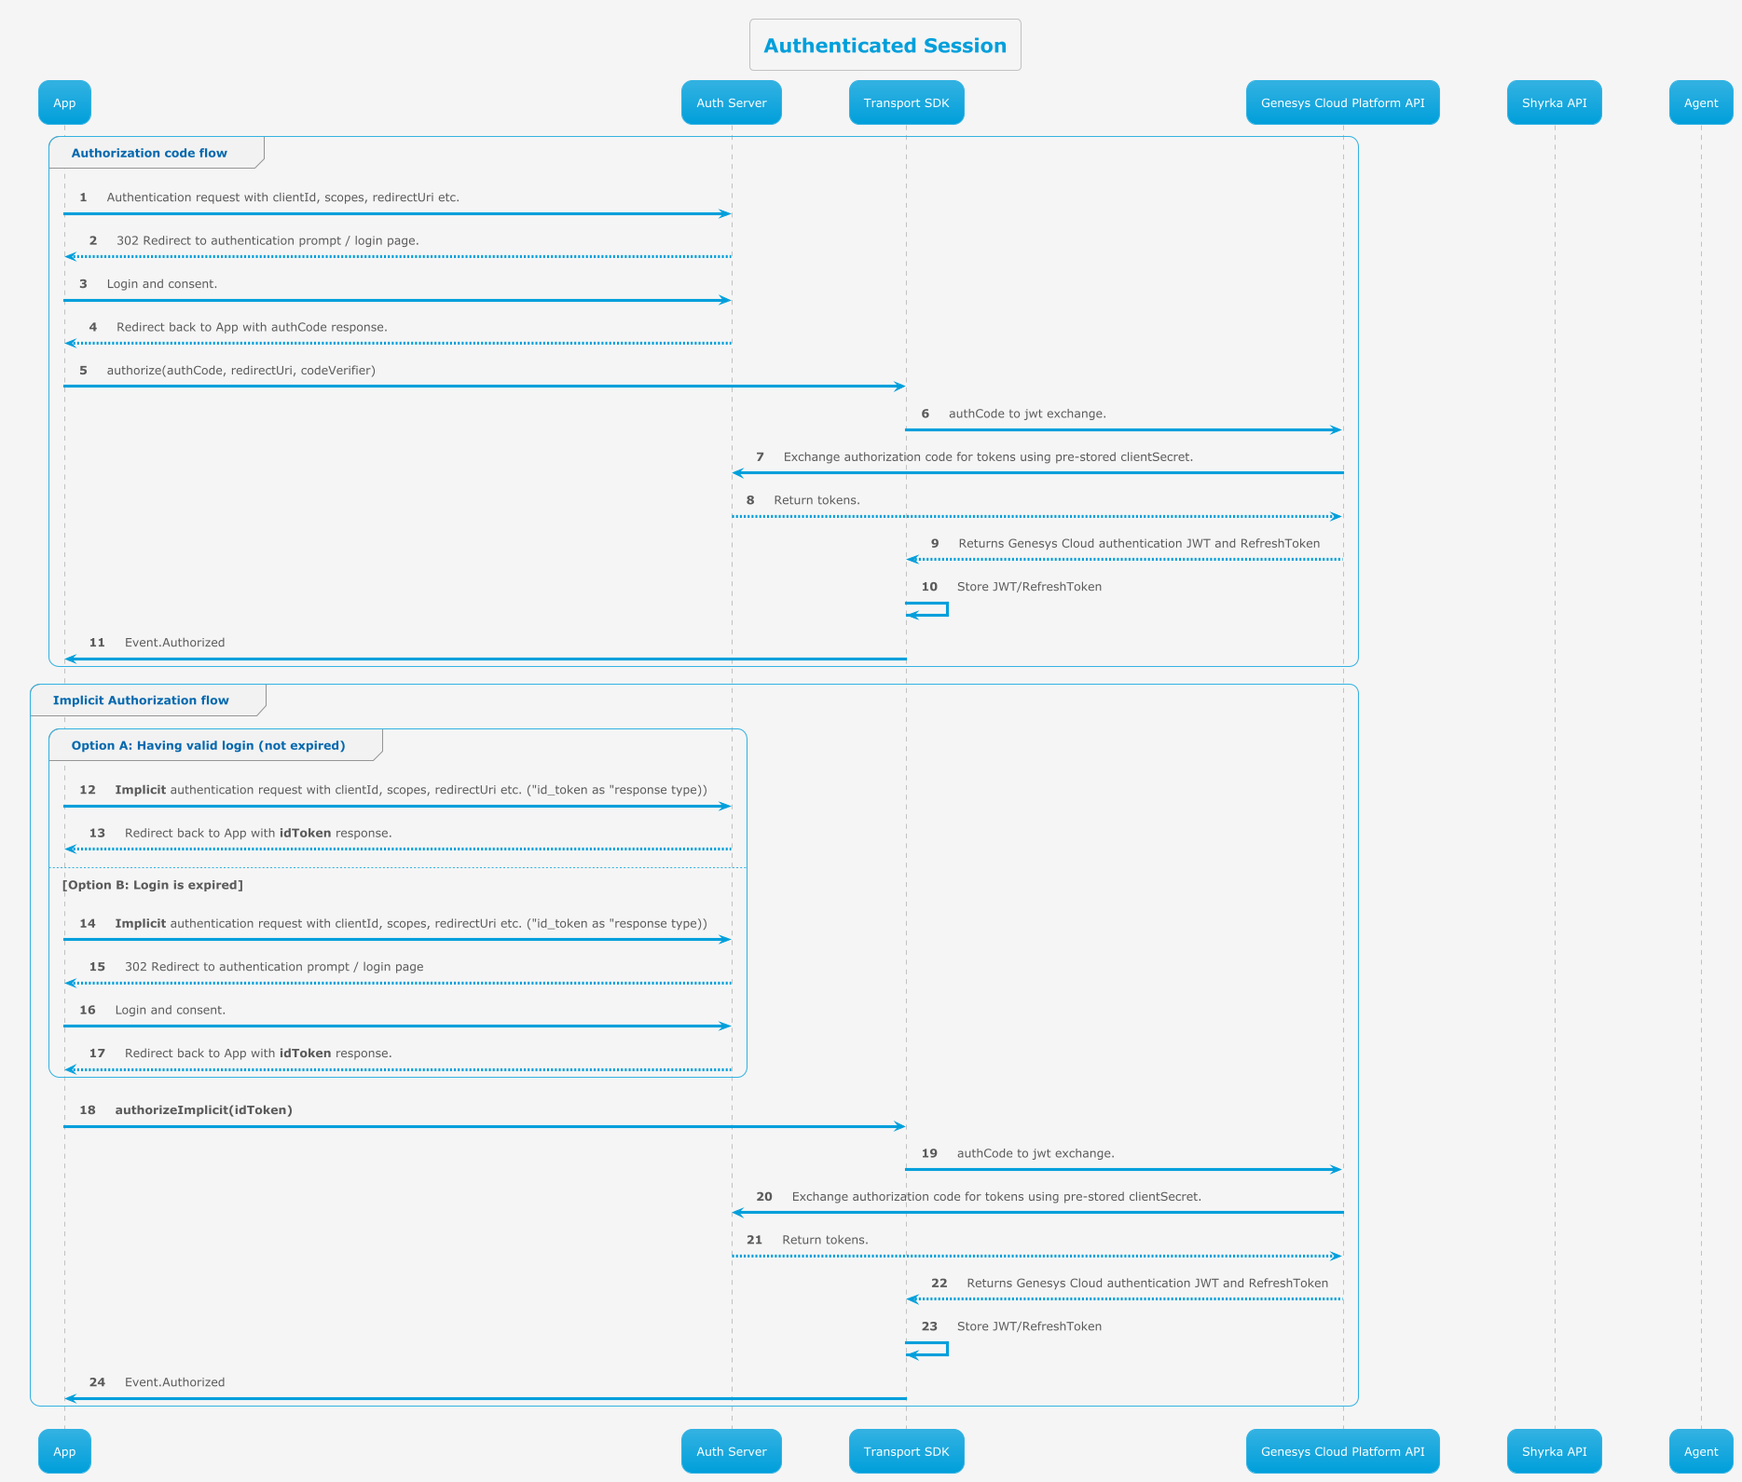
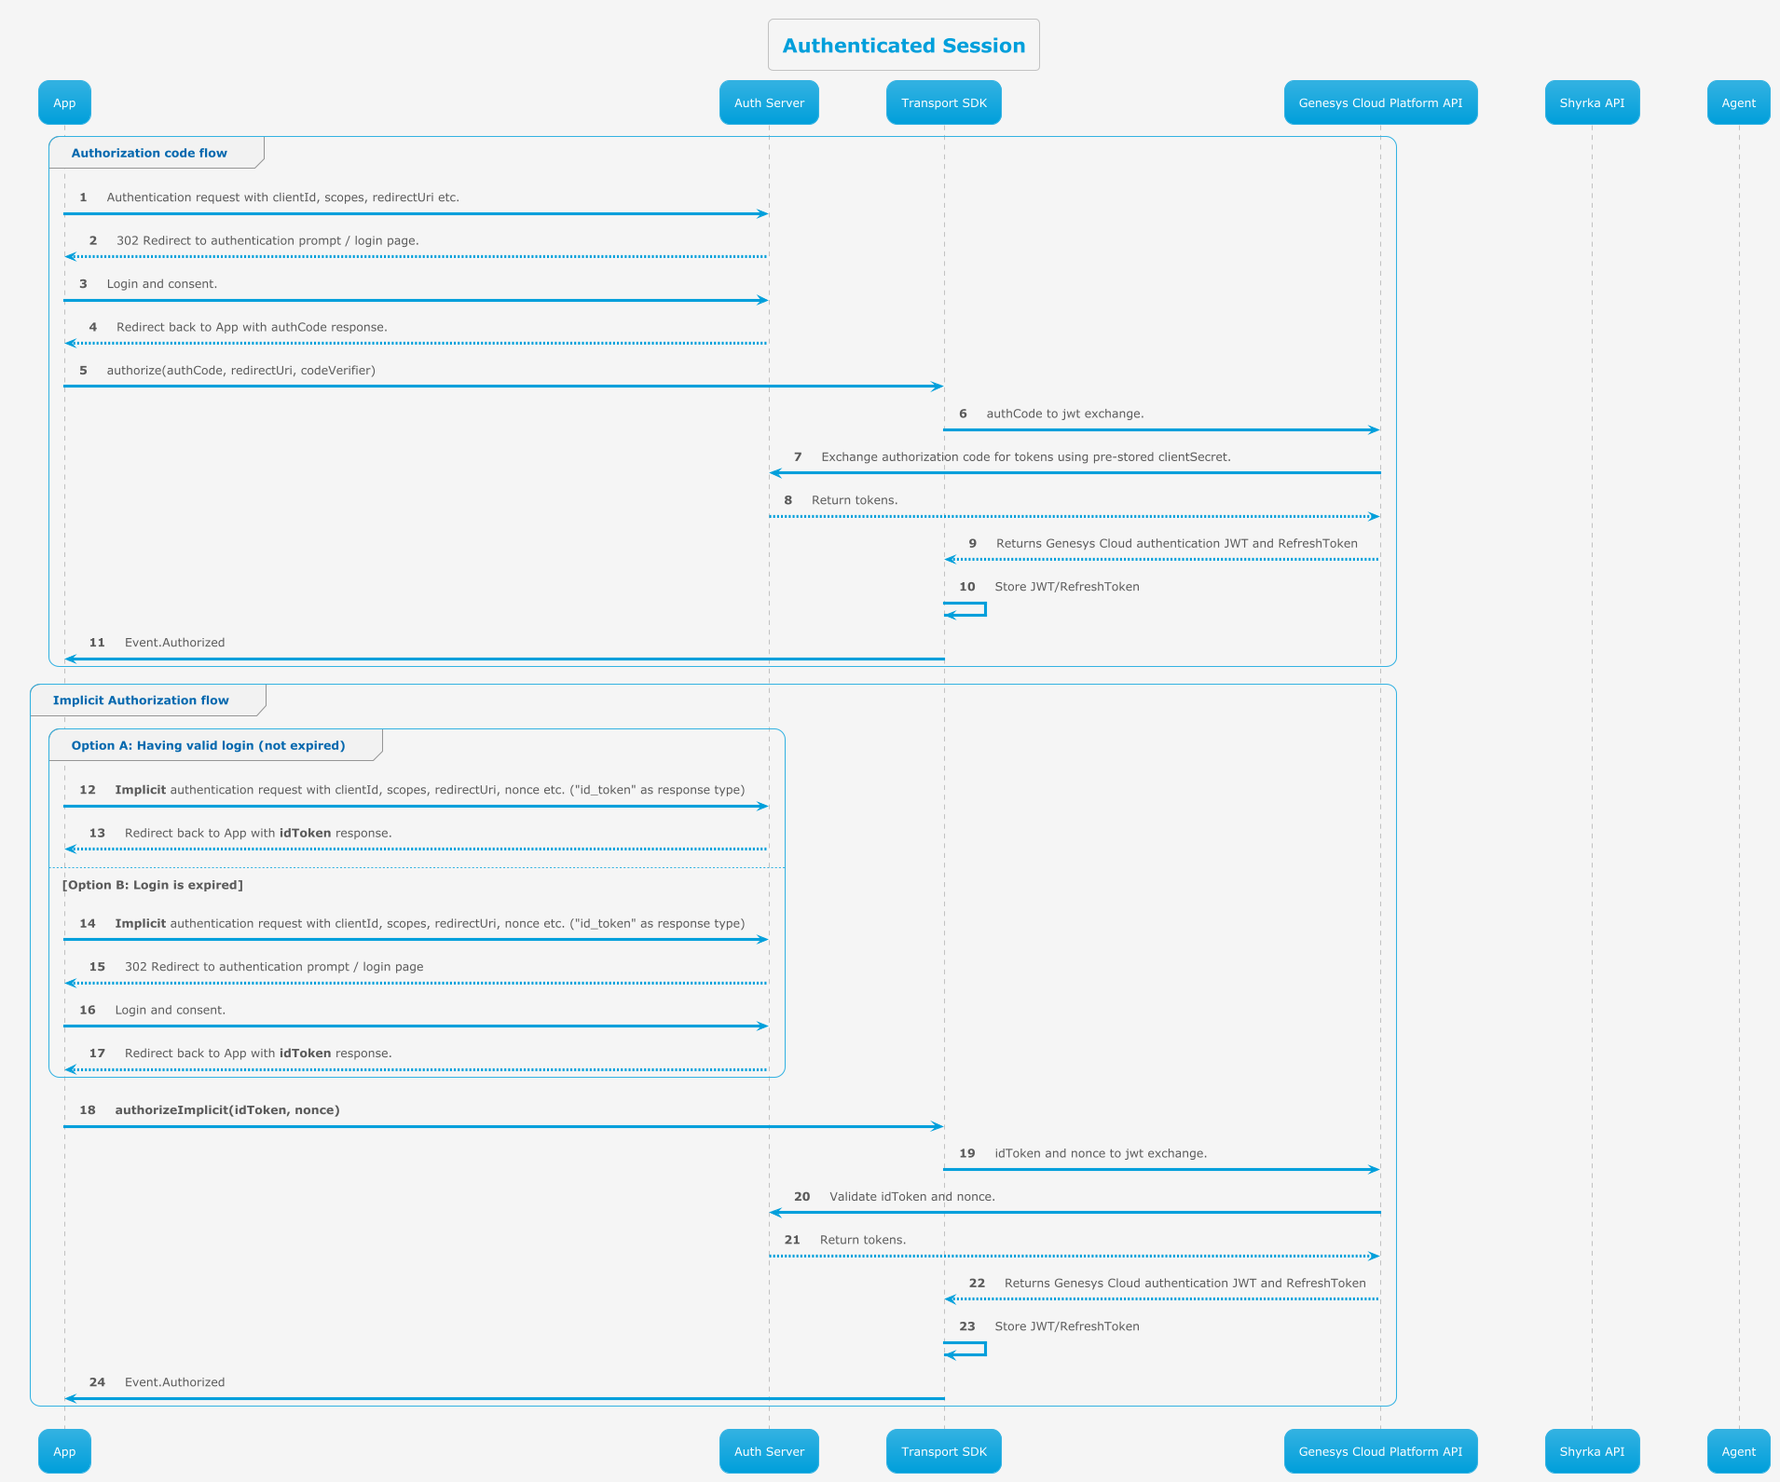
feature/MTSDK-777_Implement-the-messaging-client-authorize-implicit-id-token-method (#442)
* feature/MTSDK-777_Implement-the-messaging-client-authorize-implicit-id-token-method

Update Okta domain and implement implicit authentication flow

- Update Okta domain from dev-2518047 to integrator-8231776
- Update URL schemes to match new domain
- Replace mock authorizeImplicit with real implementation
- Add fragment parameter parsing for implicit flow redirects
- Update authorization URL path for implicit flow

* Add implicit flow authentication support for Android

* Fix implicit authentication flow and clean up code

- Update implicit flow to use idToken instead of code in request body
- Remove unnecessary annotations and debug logging
- Fix authorization code flow to not set nonce incorrectly
- Update unit tests

* MTSDK-777 add fallback value for nonce

* Fix implicit authentication flow and clean up code

- Update implicit flow to use idToken instead of code in request body
- Remove unnecessary annotations and debug logging
- Fix authorization code flow to not set nonce incorrectly
- Update unit tests

* Fix implicit authentication flow and clean up code

- Update implicit flow to use idToken instead of code in request body
- Remove unnecessary annotations and debug logging
- Fix authorization code flow to not set nonce incorrectly
- Update unit tests

* - Update HLD

* MTSDK-777 Review fix

---------

diff --git a/androidComposePrototype/src/main/java/com/genesys/cloud/messenger/androidcomposeprototype/MainActivity.kt b/androidComposePrototype/src/main/java/com/genesys/cloud/messenger/androidcomposeprototype/MainActivity.kt
@@ -30,6 +30,10 @@ class MainActivity :
         super.onCreate(savedInstanceState)
         setPrototypeLauncherView()
         WindowCompat.setDecorFitsSystemWindows(window, false)
+
+        intent?.data?.doIfRedirectedFromOkta { uri ->
+            handleOktaRedirect(uri)
+        }
     }
 
     private fun setPrototypeLauncherView() {
@@ -66,21 +70,48 @@ class MainActivity :
 
     private inline fun Uri?.doIfRedirectedFromOkta(block: (uri: Uri) -> Unit) {
         // Check with scheme from AndroidManifest.MainActivity
-        if (this?.scheme == "com.okta.dev-14718840") {
+        if (this?.scheme == "com.oktapreview.genesys-cloud") {
             block(this)
         }
     }
 
     private fun handleOktaRedirect(data: Uri) {
+        Log.d(TAG, "handleOktaRedirect uri: $data")
+
         data.getQueryParameter("code")?.let { authCode ->
             viewModel.authCode = authCode
+            viewModel.idToken = ""
+        } ?: run {
+            data.fragment?.let { fragment ->
+                parseFragmentParameters(fragment)
+            }
         }
-        data.getQueryParameter("id_token")?.let { idToken ->
+        data.getQueryParameter("error")?.let { error ->
+            val errorDescription = data.getQueryParameter("error_description") ?: error
+            Log.e(TAG, "Okta error: $error - $errorDescription")
+            Toast.makeText(applicationContext, errorDescription, Toast.LENGTH_LONG).show()
+        }
+    }
+
+    private fun parseFragmentParameters(fragment: String) {
+        val params = mutableMapOf<String, String>()
+        fragment.split("&").forEach { param ->
+            val parts = param.split("=", limit = 2)
+            if (parts.size == 2) {
+                val key = Uri.decode(parts[0])
+                val value = Uri.decode(parts[1])
+                params[key] = value
+            }
+        }
+        params["id_token"]?.let { idToken ->
+            Log.d(TAG, "handleOktaRedirect id token: $idToken")
             viewModel.idToken = idToken
+            viewModel.authCode = ""
         }
-        data.getQueryParameter("error_description")?.let { error ->
-            Log.e(TAG, error)
-            Toast.makeText(applicationContext, error, Toast.LENGTH_LONG).show()
+        params["error"]?.let { error ->
+            val errorDescription = params["error_description"] ?: error
+            Log.e(TAG, "Okta error: $error - $errorDescription")
+            Toast.makeText(applicationContext, errorDescription, Toast.LENGTH_LONG).show()
         }
     }
 }

diff --git a/transport/src/androidUnitTest/kotlin/transport/auth/AuthHandlerTest.kt b/transport/src/androidUnitTest/kotlin/transport/auth/AuthHandlerTest.kt
@@ -587,14 +587,14 @@ class AuthHandlerTest {
 
     @Test
     fun `when authorizeImplicit() success`() {
-        coEvery { mockWebMessagingApi.fetchAuthJwt(AuthTest.ID_TOKEN) } returns Result.Success(
+        coEvery { mockWebMessagingApi.fetchAuthJwt(AuthTest.ID_TOKEN, AuthTest.NONCE) } returns Result.Success(
             AuthJwt(AuthTest.JWT_TOKEN, AuthTest.REFRESH_TOKEN)
         )
         val expectedAuthJwt = AuthJwt(AuthTest.JWT_TOKEN, NO_REFRESH_TOKEN)
 
-        subject.authorizeImplicit(AuthTest.ID_TOKEN)
+        subject.authorizeImplicit(AuthTest.ID_TOKEN, AuthTest.NONCE)
 
-        coVerify { mockWebMessagingApi.fetchAuthJwt(AuthTest.ID_TOKEN) }
+        coVerify { mockWebMessagingApi.fetchAuthJwt(AuthTest.ID_TOKEN, AuthTest.NONCE) }
         verify { mockEventHandler.onEvent(Event.Authorized) }
         assertThat(subject.jwt).isEqualTo(expectedAuthJwt.jwt)
         assertThat(fakeVault.authRefreshToken).isEqualTo(expectedAuthJwt.refreshToken)
@@ -602,16 +602,16 @@ class AuthHandlerTest {
 
     @Test
     fun `when authorizeImplicit() failure`() {
-        coEvery { mockWebMessagingApi.fetchAuthJwt(AuthTest.ID_TOKEN) } returns Result.Failure(
+        coEvery { mockWebMessagingApi.fetchAuthJwt(AuthTest.ID_TOKEN, AuthTest.NONCE) } returns Result.Failure(
             ErrorCode.AuthFailed,
             ErrorTest.MESSAGE
         )
 
         val expectedAuthJwt = AuthJwt(NO_JWT, NO_REFRESH_TOKEN)
 
-        subject.authorizeImplicit(AuthTest.ID_TOKEN)
+        subject.authorizeImplicit(AuthTest.ID_TOKEN, AuthTest.NONCE)
 
-        coVerify { mockWebMessagingApi.fetchAuthJwt(AuthTest.ID_TOKEN) }
+        coVerify { mockWebMessagingApi.fetchAuthJwt(AuthTest.ID_TOKEN, AuthTest.NONCE) }
         verify {
             mockLogger.e(capture(logSlot))
             mockEventHandler.onEvent(
@@ -629,12 +629,12 @@ class AuthHandlerTest {
 
     @Test
     fun `when authorizeImplicit() failure with CancellationException`() {
-        coEvery { mockWebMessagingApi.fetchAuthJwt(AuthTest.ID_TOKEN) } returns Result.Failure(
+        coEvery { mockWebMessagingApi.fetchAuthJwt(AuthTest.ID_TOKEN, AuthTest.NONCE) } returns Result.Failure(
             ErrorCode.CancellationError,
             ErrorTest.MESSAGE
         )
 
-        subject.authorizeImplicit(AuthTest.ID_TOKEN)
+        subject.authorizeImplicit(AuthTest.ID_TOKEN, AuthTest.NONCE)
 
         verify { mockLogger.w(capture(logSlot)) }
         verify(exactly = 0) {

diff --git a/iosApp/iosApp/TestbedViewController.swift b/iosApp/iosApp/TestbedViewController.swift
@@ -17,6 +17,7 @@ class TestbedViewController: UIViewController {
     private var pkceEnabled = false
     private var authCode: String? = nil
     private var idToken: String? = nil
+    private var nonce: String? = nil
     private var authState: AuthState = AuthState.noAuth
     private var quickRepliesMap = [String: ButtonResponse]()
 
@@ -410,6 +411,8 @@ class TestbedViewController: UIViewController {
             return nil
         }
 
+        let generatedNonce = UUID().uuidString
+        self.nonce = generatedNonce
         var urlComponents = URLComponents(string: "https://\(oktaDomain)/oauth2/default/v1/authorize")!
         urlComponents.queryItems = [
             URLQueryItem(name: "client_id", value: clientId),
@@ -417,7 +420,7 @@ class TestbedViewController: UIViewController {
             URLQueryItem(name: "scope", value: "openid profile email"),
             URLQueryItem(name: "redirect_uri", value: signInRedirectURI),
             URLQueryItem(name: "state", value: oktaState),
-            URLQueryItem(name: "nonce", value: UUID().uuidString)
+            URLQueryItem(name: "nonce", value: generatedNonce)
         ]
 
         guard let url = urlComponents.url else {
@@ -558,14 +561,18 @@ extension TestbedViewController : UITextFieldDelegate {
                 else {
                     authState = AuthState.error(errorCode: ErrorCode.AuthFailed.shared, message: "Unable to read Okta.plist or missing required key", correctiveAction: CorrectiveAction.ReAuthenticate.shared)
                     updateAuthStateView()
-                return true
+                    return true
                 }
                 
                 messenger.authorize(authCode: self.authCode ?? "", redirectUri: signInRedirectURI, codeVerifier: codeVerifier)
             case (.implicitLogin, _):
                 implicitSignIn()
             case (.implicitAuthorize, _):
-                messenger.authorizeImplicit(idToken: self.idToken ?? "")
+                guard let nonce = self.nonce else {
+                    self.info.text = "Please, first obtain nonce from login."
+                    return true
+                }
+                messenger.authorizeImplicit(idToken: self.idToken ?? "", nonce: nonce)
             case (.clearConversation, _):
                 try messenger.clearConversation()
             case (.removeToken, _):

diff --git a/androidComposePrototype/src/main/java/com/genesys/cloud/messenger/androidcomposeprototype/ui/testbed/TestBedViewModel.kt b/androidComposePrototype/src/main/java/com/genesys/cloud/messenger/androidcomposeprototype/ui/testbed/TestBedViewModel.kt
@@ -89,6 +89,8 @@ class TestBedViewModel :
             this.authState = authState
         }
 
+    var nonce: String = ""
+
     val regions = listOf(
         "inindca.com",
         "inintca.com",
@@ -443,10 +445,10 @@ class TestBedViewModel :
             onSocketMessageReceived("Please, first obtain id token from login.")
             return
         }
-        // TODO: Replace with actual client.authorizeImplicit(idToken) when branch is merged
-        // Mock implementation for testing until authorizeImplicit is available
-        onSocketMessageReceived("Mock: authorizeImplicit called with ID token (length: ${idToken.length})")
-        commandWaiting = false
+        if (nonce.isEmpty()) {
+            nonce = UUID.randomUUID().toString()
+        }
+        client.authorizeImplicit(idToken, nonce)
     }
 
     private fun doRemoveTokenFromVault() {
@@ -636,6 +638,8 @@ class TestBedViewModel :
     }
 
     private fun buildImplicitOktaAuthorizeUrl(): String {
+        val generatedNonce = UUID.randomUUID().toString()
+        nonce = generatedNonce
         val builder =
             URLBuilder("https://${BuildConfig.OKTA_DOMAIN}/oauth2/default/v1/authorize").apply {
                 parameters.append("client_id", BuildConfig.CLIENT_ID)
@@ -643,7 +647,7 @@ class TestBedViewModel :
                 parameters.append("scope", "openid profile email")
                 parameters.append("redirect_uri", BuildConfig.SIGN_IN_REDIRECT_URI)
                 parameters.append("state", BuildConfig.OKTA_STATE)
-                parameters.append("nonce", UUID.randomUUID().toString())
+                parameters.append("nonce", generatedNonce)
             }
         return builder.build().toString()
     }

diff --git a/iosApp/iosApp/SceneDelegate.swift b/iosApp/iosApp/SceneDelegate.swift
@@ -64,11 +64,31 @@ class SceneDelegate: UIResponder, UIWindowSceneDelegate {
                 if item.name == "code", let code = item.value {
                     rootViewController.setAuthCode(code)
                     rootViewController.setIdToken(nil)
-                } else if item.name == "id_token", let idToken = item.value {
-                    rootViewController.setIdToken(idToken)
-                    rootViewController.setAuthCode(nil)
+                    return
+                } else if item.name == "error" {
+                    let errorDescription = queryItems.first(where: { $0.name == "error_description" })?.value ?? item.value ?? "Unknown error"
+                    print("Okta error: \(errorDescription)")
+                    return
                 }
-                break
+            }
+        }
+
+        if let fragment = url.fragment {
+            let params = fragment.split(separator: "&").reduce(into: [String: String]()) { dict, pair in
+                let parts = pair.split(separator: "=", maxSplits: 1)
+                if parts.count == 2 {
+                    let key = String(parts[0]).removingPercentEncoding ?? String(parts[0])
+                    let value = String(parts[1]).removingPercentEncoding ?? String(parts[1])
+                    dict[key] = value
+                }
+            }
+
+            if let idToken = params["id_token"] {
+                rootViewController.setIdToken(idToken)
+                rootViewController.setAuthCode(nil)
+            } else if let error = params["error"] {
+                let errorDescription = params["error_description"] ?? error
+                print("Okta error: \(errorDescription)")
             }
         }
     }

diff --git a/transport/src/commonMain/kotlin/com/genesys/cloud/messenger/transport/network/WebMessagingApi.kt b/transport/src/commonMain/kotlin/com/genesys/cloud/messenger/transport/network/WebMessagingApi.kt
@@ -134,6 +134,34 @@ internal class WebMessagingApi(
             Result.Failure(ErrorCode.AuthFailed, exception.message)
         }
 
+    suspend fun fetchAuthJwt(
+        idToken: String,
+        nonce: String
+    ): Result<AuthJwt> =
+        try {
+            val requestBody = AuthJwtRequest(
+                deploymentId = configuration.deploymentId,
+                oauth = OAuth(
+                    idToken = idToken,
+                    nonce = nonce,
+                )
+            )
+            val response = client.post(urls.jwtAuthUrl.toString()) {
+                header("content-type", ContentType.Application.Json)
+                setBody(requestBody)
+                retryOnServerErrors()
+            }
+            if (response.status.isSuccess()) {
+                Result.Success(response.body())
+            } else {
+                Result.Failure(ErrorCode.AuthFailed, response.body<String>())
+            }
+        } catch (cancellationException: CancellationException) {
+            Result.Failure(ErrorCode.CancellationError, cancellationException.message)
+        } catch (exception: Exception) {
+            Result.Failure(ErrorCode.AuthFailed, exception.message)
+        }
+
     suspend fun logoutFromAuthenticatedSession(jwt: String): Result<Empty> =
         try {
             val response = client.delete(urls.logoutUrl.toString()) {

diff --git a/transport/src/commonMain/kotlin/com/genesys/cloud/messenger/transport/core/MessagingClient.kt b/transport/src/commonMain/kotlin/com/genesys/cloud/messenger/transport/core/MessagingClient.kt
@@ -307,9 +307,13 @@ interface MessagingClient {
      * Exchange authCode for accessToken(JWT) using the provided id token using implicit grant flow.
      * In case of failure Event.Error with [ErrorCode.AuthFailed] will be sent.
      *
-     * @param idToken The authentication code to use for fetching the Auth JWT.
+     * @param idToken The id token to use for fetching the Auth JWT.
+     * @param nonce The nonce that was used when requesting the ID token.
      */
-    fun authorizeImplicit(idToken: String)
+    fun authorizeImplicit(
+        idToken: String,
+        nonce: String
+    )
 
     /**
      * Logs out user from authenticated session on all devices that shares the same auth session.

diff --git a/transport/src/commonMain/kotlin/com/genesys/cloud/messenger/transport/auth/AuthHandlerImpl.kt b/transport/src/commonMain/kotlin/com/genesys/cloud/messenger/transport/auth/AuthHandlerImpl.kt
@@ -56,9 +56,12 @@ internal class AuthHandlerImpl(
         }
     }
 
-    override fun authorizeImplicit(idToken: String) {
+    override fun authorizeImplicit(
+        idToken: String,
+        nonce: String
+    ) {
         dispatcher.launch {
-            when (val result = api.fetchAuthJwt(idToken)) {
+            when (val result = api.fetchAuthJwt(idToken, nonce)) {
                 is Result.Success -> {
                     result.value.let {
                         authJwt = it

diff --git a/transport/src/commonMain/kotlin/com/genesys/cloud/messenger/transport/core/MessagingClientImpl.kt b/transport/src/commonMain/kotlin/com/genesys/cloud/messenger/transport/core/MessagingClientImpl.kt
@@ -365,9 +365,12 @@ internal class MessagingClientImpl(
         authHandler.authorize(authCode, redirectUri, codeVerifier)
     }
 
-    override fun authorizeImplicit(idToken: String) {
+    override fun authorizeImplicit(
+        idToken: String,
+        nonce: String
+    ) {
         invalidateSessionToken()
-        authHandler.authorizeImplicit(idToken)
+        authHandler.authorizeImplicit(idToken, nonce)
     }
 
     @Throws(IllegalStateException::class)

diff --git a/iosApp/iosApp/MessengerInteractor.swift b/iosApp/iosApp/MessengerInteractor.swift
@@ -58,8 +58,8 @@ final class MessengerInteractor {
         messagingClient.authorize(authCode: authCode, redirectUri: redirectUri, codeVerifier: codeVerifier)
     }
 
-    func authorizeImplicit(idToken: String) {
-        messagingClient.authorizeImplicit(idToken: idToken)
+    func authorizeImplicit(idToken: String, nonce: String) {
+        messagingClient.authorizeImplicit(idToken: idToken, nonce: nonce)
     }
 
     func connect() throws {

diff --git a/transport/src/androidUnitTest/kotlin/transport/core/messagingclient/MessagingClientAuthTest.kt b/transport/src/androidUnitTest/kotlin/transport/core/messagingclient/MessagingClientAuthTest.kt
@@ -61,10 +61,10 @@ class MessagingClientAuthTest : BaseMessagingClientTest() {
 
     @Test
     fun `when authorizeImplicit is called`() {
-        subject.authorizeImplicit(AuthTest.ID_TOKEN)
+        subject.authorizeImplicit(AuthTest.ID_TOKEN, AuthTest.NONCE)
 
         verify {
-            mockAuthHandler.authorizeImplicit(AuthTest.ID_TOKEN)
+            mockAuthHandler.authorizeImplicit(AuthTest.ID_TOKEN, AuthTest.NONCE)
         }
     }
 

diff --git a/transport/src/commonMain/kotlin/com/genesys/cloud/messenger/transport/shyrka/send/AuthJwtRequest.kt b/transport/src/commonMain/kotlin/com/genesys/cloud/messenger/transport/shyrka/send/AuthJwtRequest.kt
@@ -10,7 +10,9 @@ internal data class AuthJwtRequest(
 
 @Serializable
 internal data class OAuth(
-    val code: String,
+    val code: String? = null,
+    val idToken: String? = null,
     val redirectUri: String? = null,
     val codeVerifier: String? = null,
+    val nonce: String? = null,
 )
